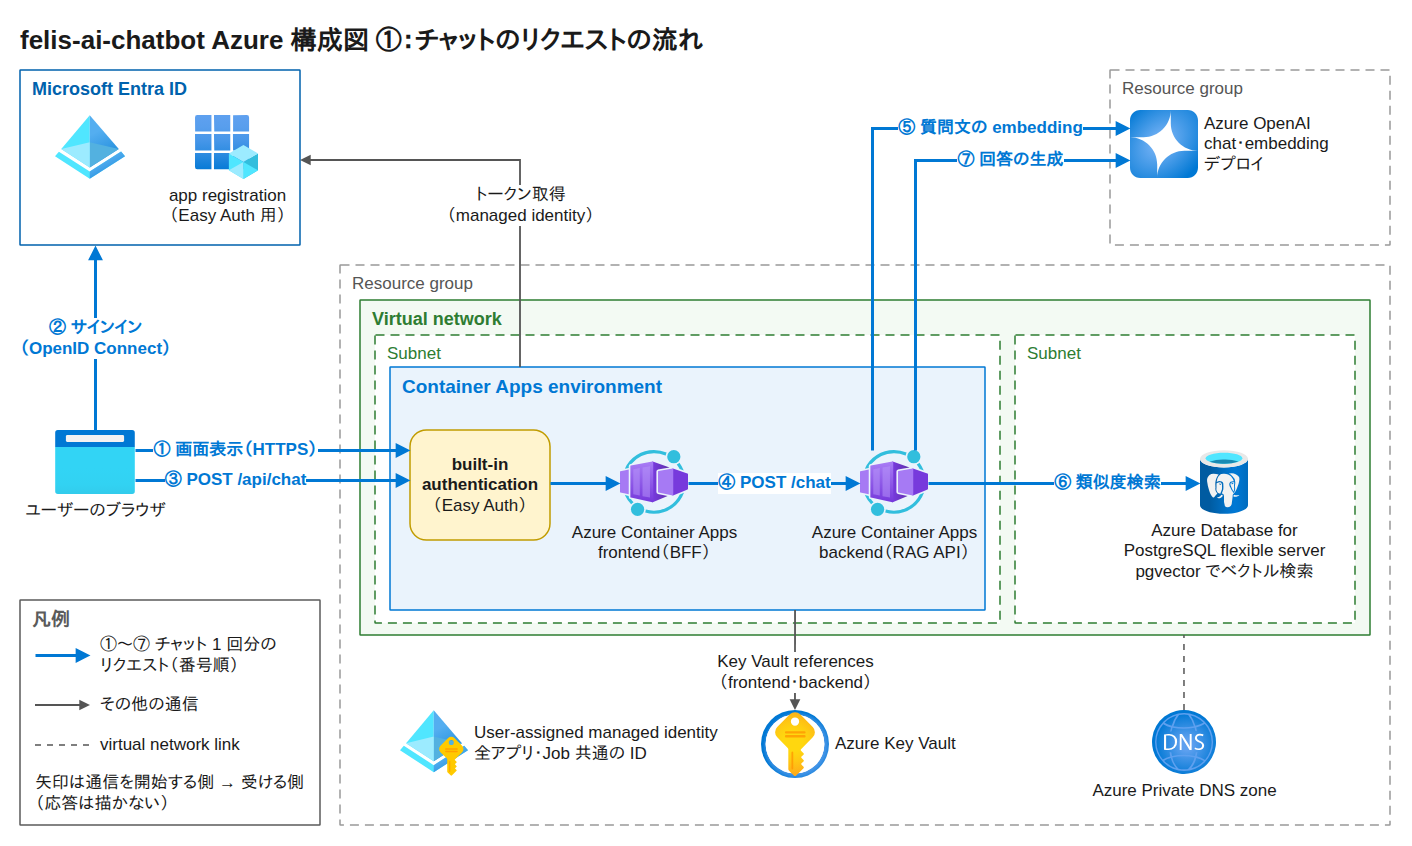
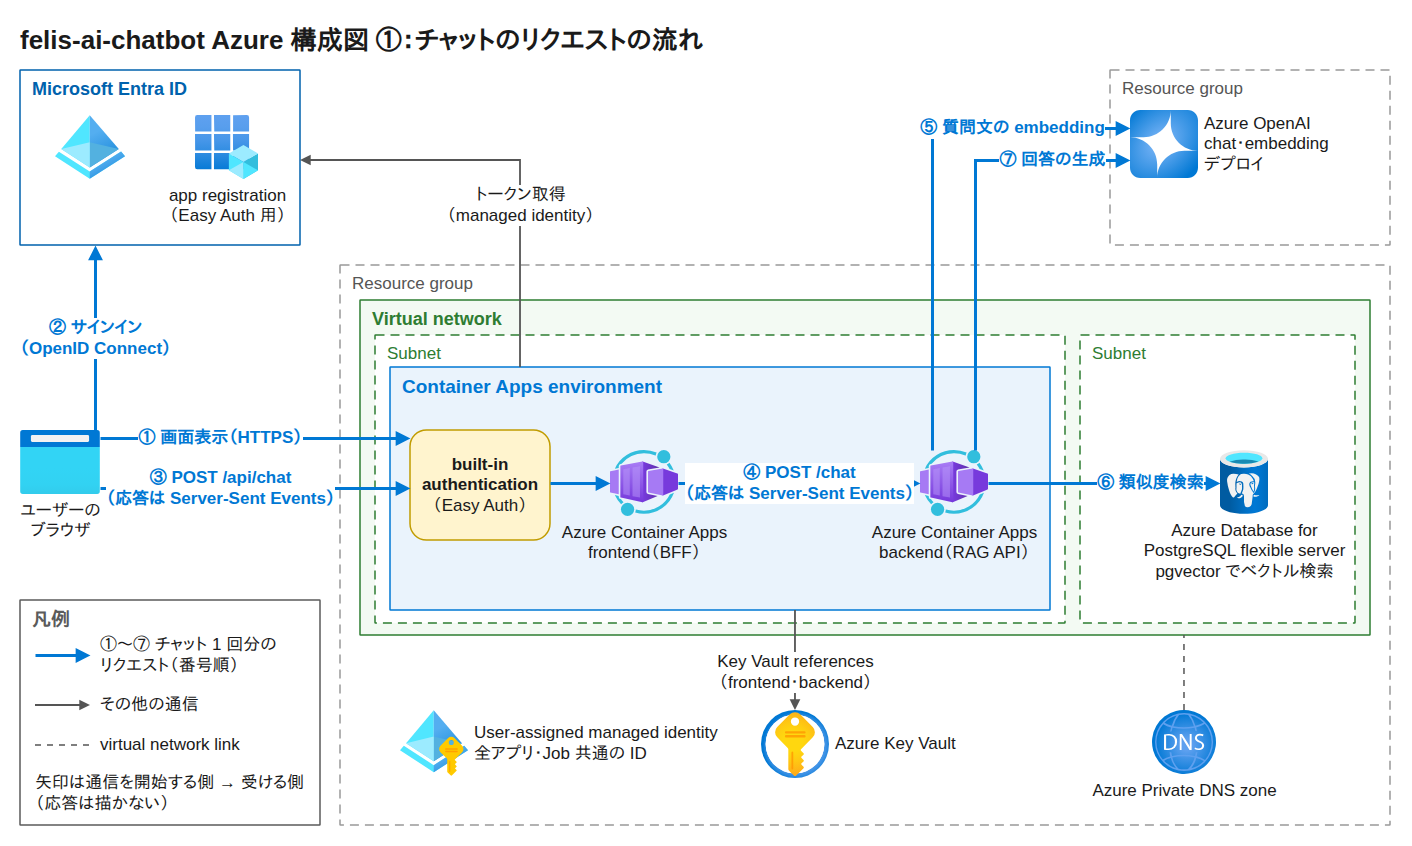
docs: 図 1 の ③④ のラベルと README に SSE での応答を書く (#342)
- 図 1 の ③ POST /api/chat と ④ POST /chat のラベルに「応答は Server-Sent Events」を追記
  （backend は text/event-stream を返し、BFF はそのまま中継する）
- 応答の矢印は描かない方針のまま、README に SSE でのストリーミング返却を 1 行追記
- ラベルの幅に合わせて browser・backend・PostgreSQL の位置と枠の幅を調整

Refs #341

Claude-Session: https://claude.ai/code/session_01CPLfa4xjrZJtzQqEqAQjMq

diff --git a/README.md b/README.md
@@ -12,6 +12,8 @@ backend は internal ingress で frontend の BFF 経由でのみ到達可能）
 
 ![図 1: ブラウザから Easy Auth・frontend（BFF）・backend（RAG API）を経て Azure OpenAI と PostgreSQL flexible server に至るチャットのリクエストの流れ](./docs/architecture/architecture-request-flow.png)
 
+回答は backend から frontend（BFF）を経て、Server-Sent Events（SSE）でブラウザへストリーミング返却します（図 1 は要求の向きだけを矢印で描いています）。
+
 図 2: デプロイ・運用・監視・バックアップ
 
 ![図 2: GitHub Actions の外形監視、開発者のローカル環境からの Terraform・デプロイ・運用操作、Azure Monitor のアラート、PostgreSQL flexible server のバックアップの構成](./docs/architecture/architecture-operations.png)
